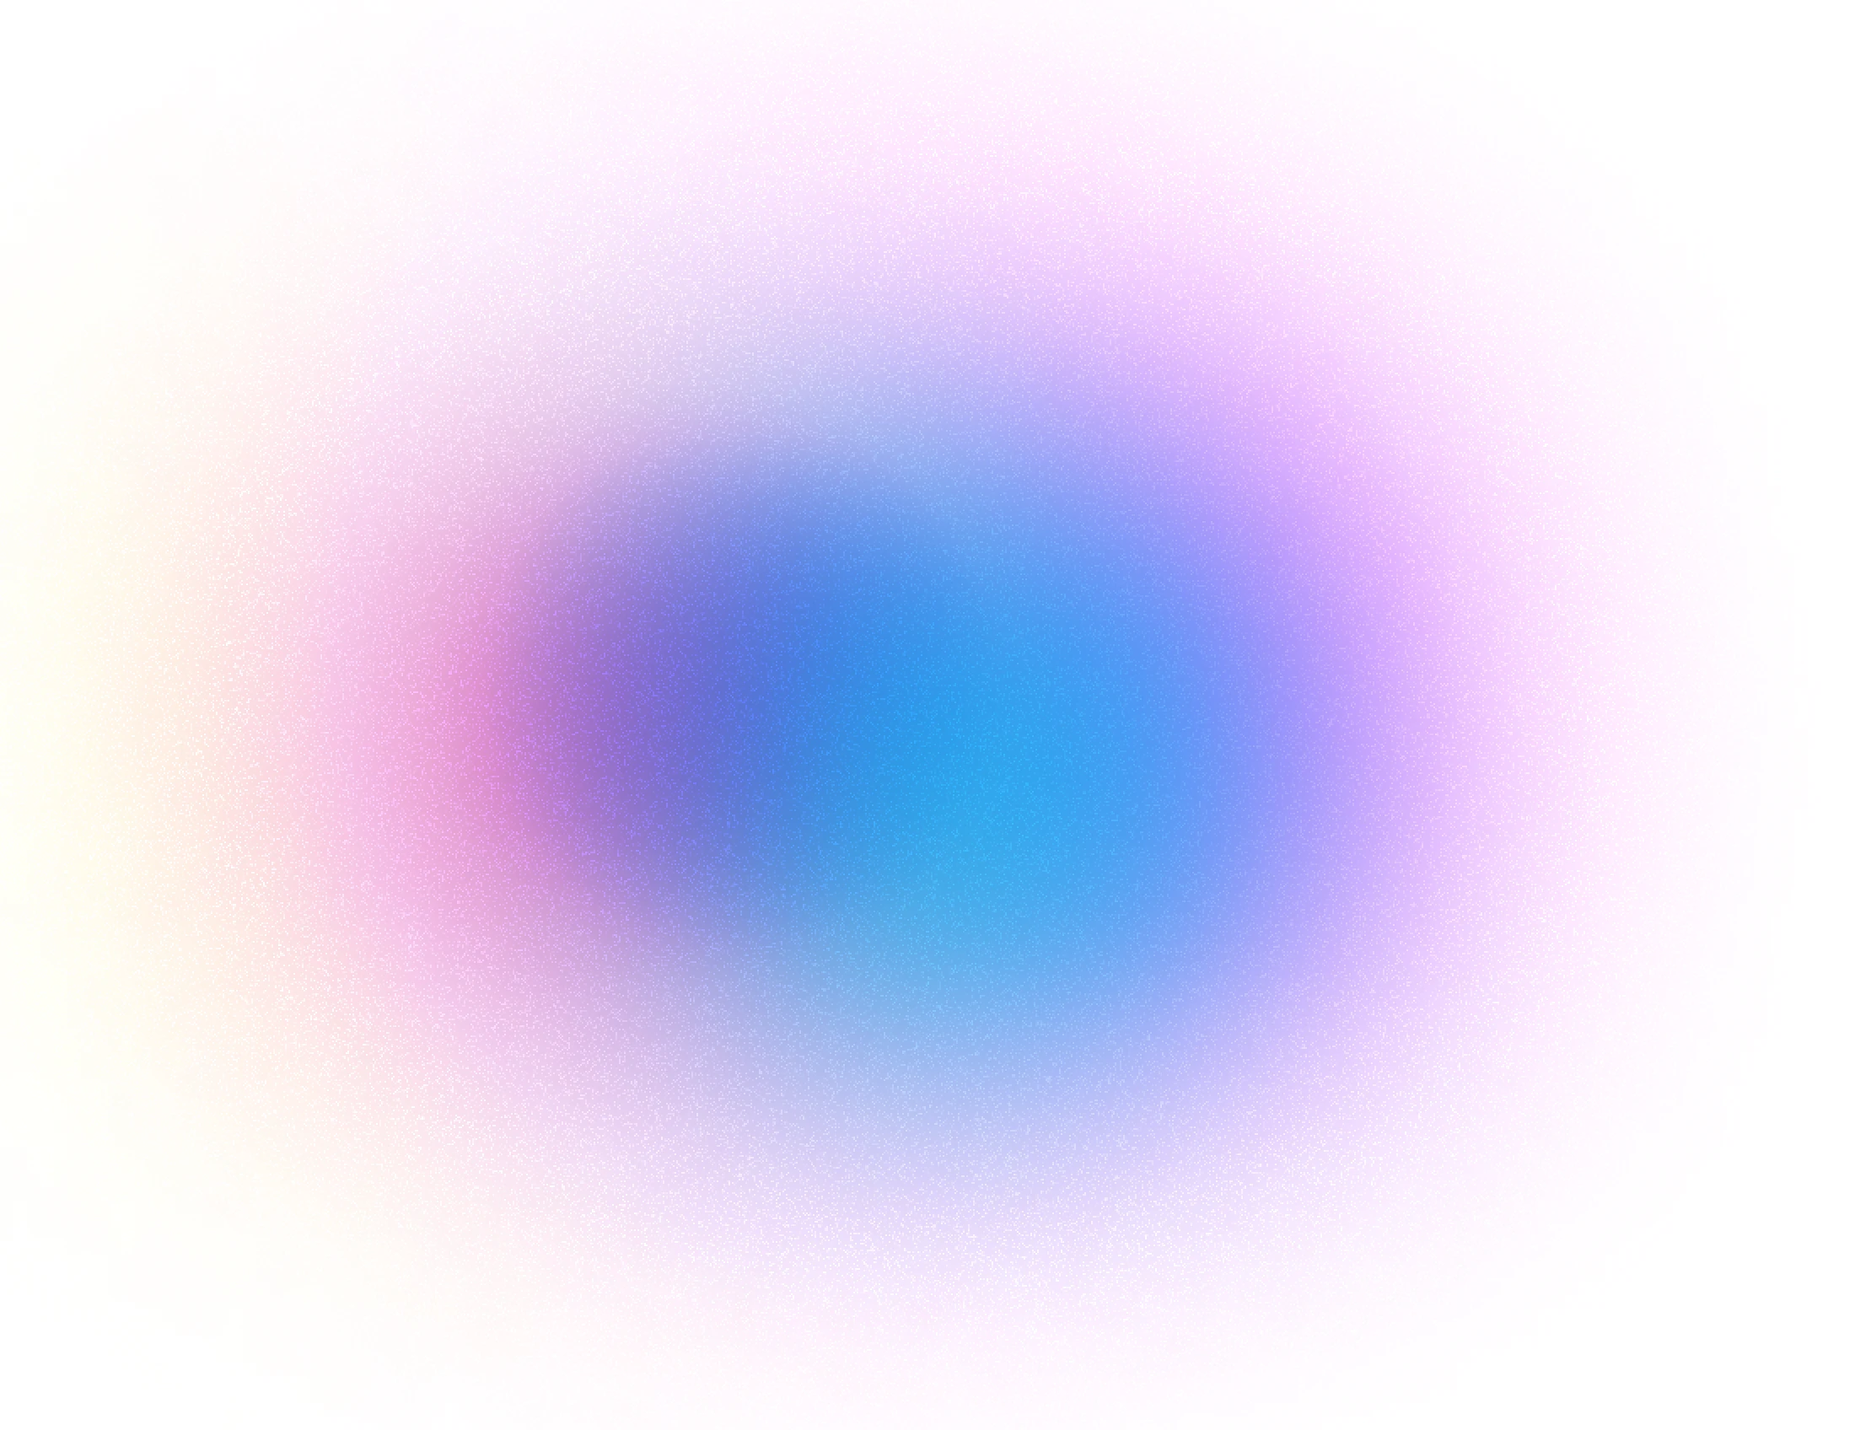
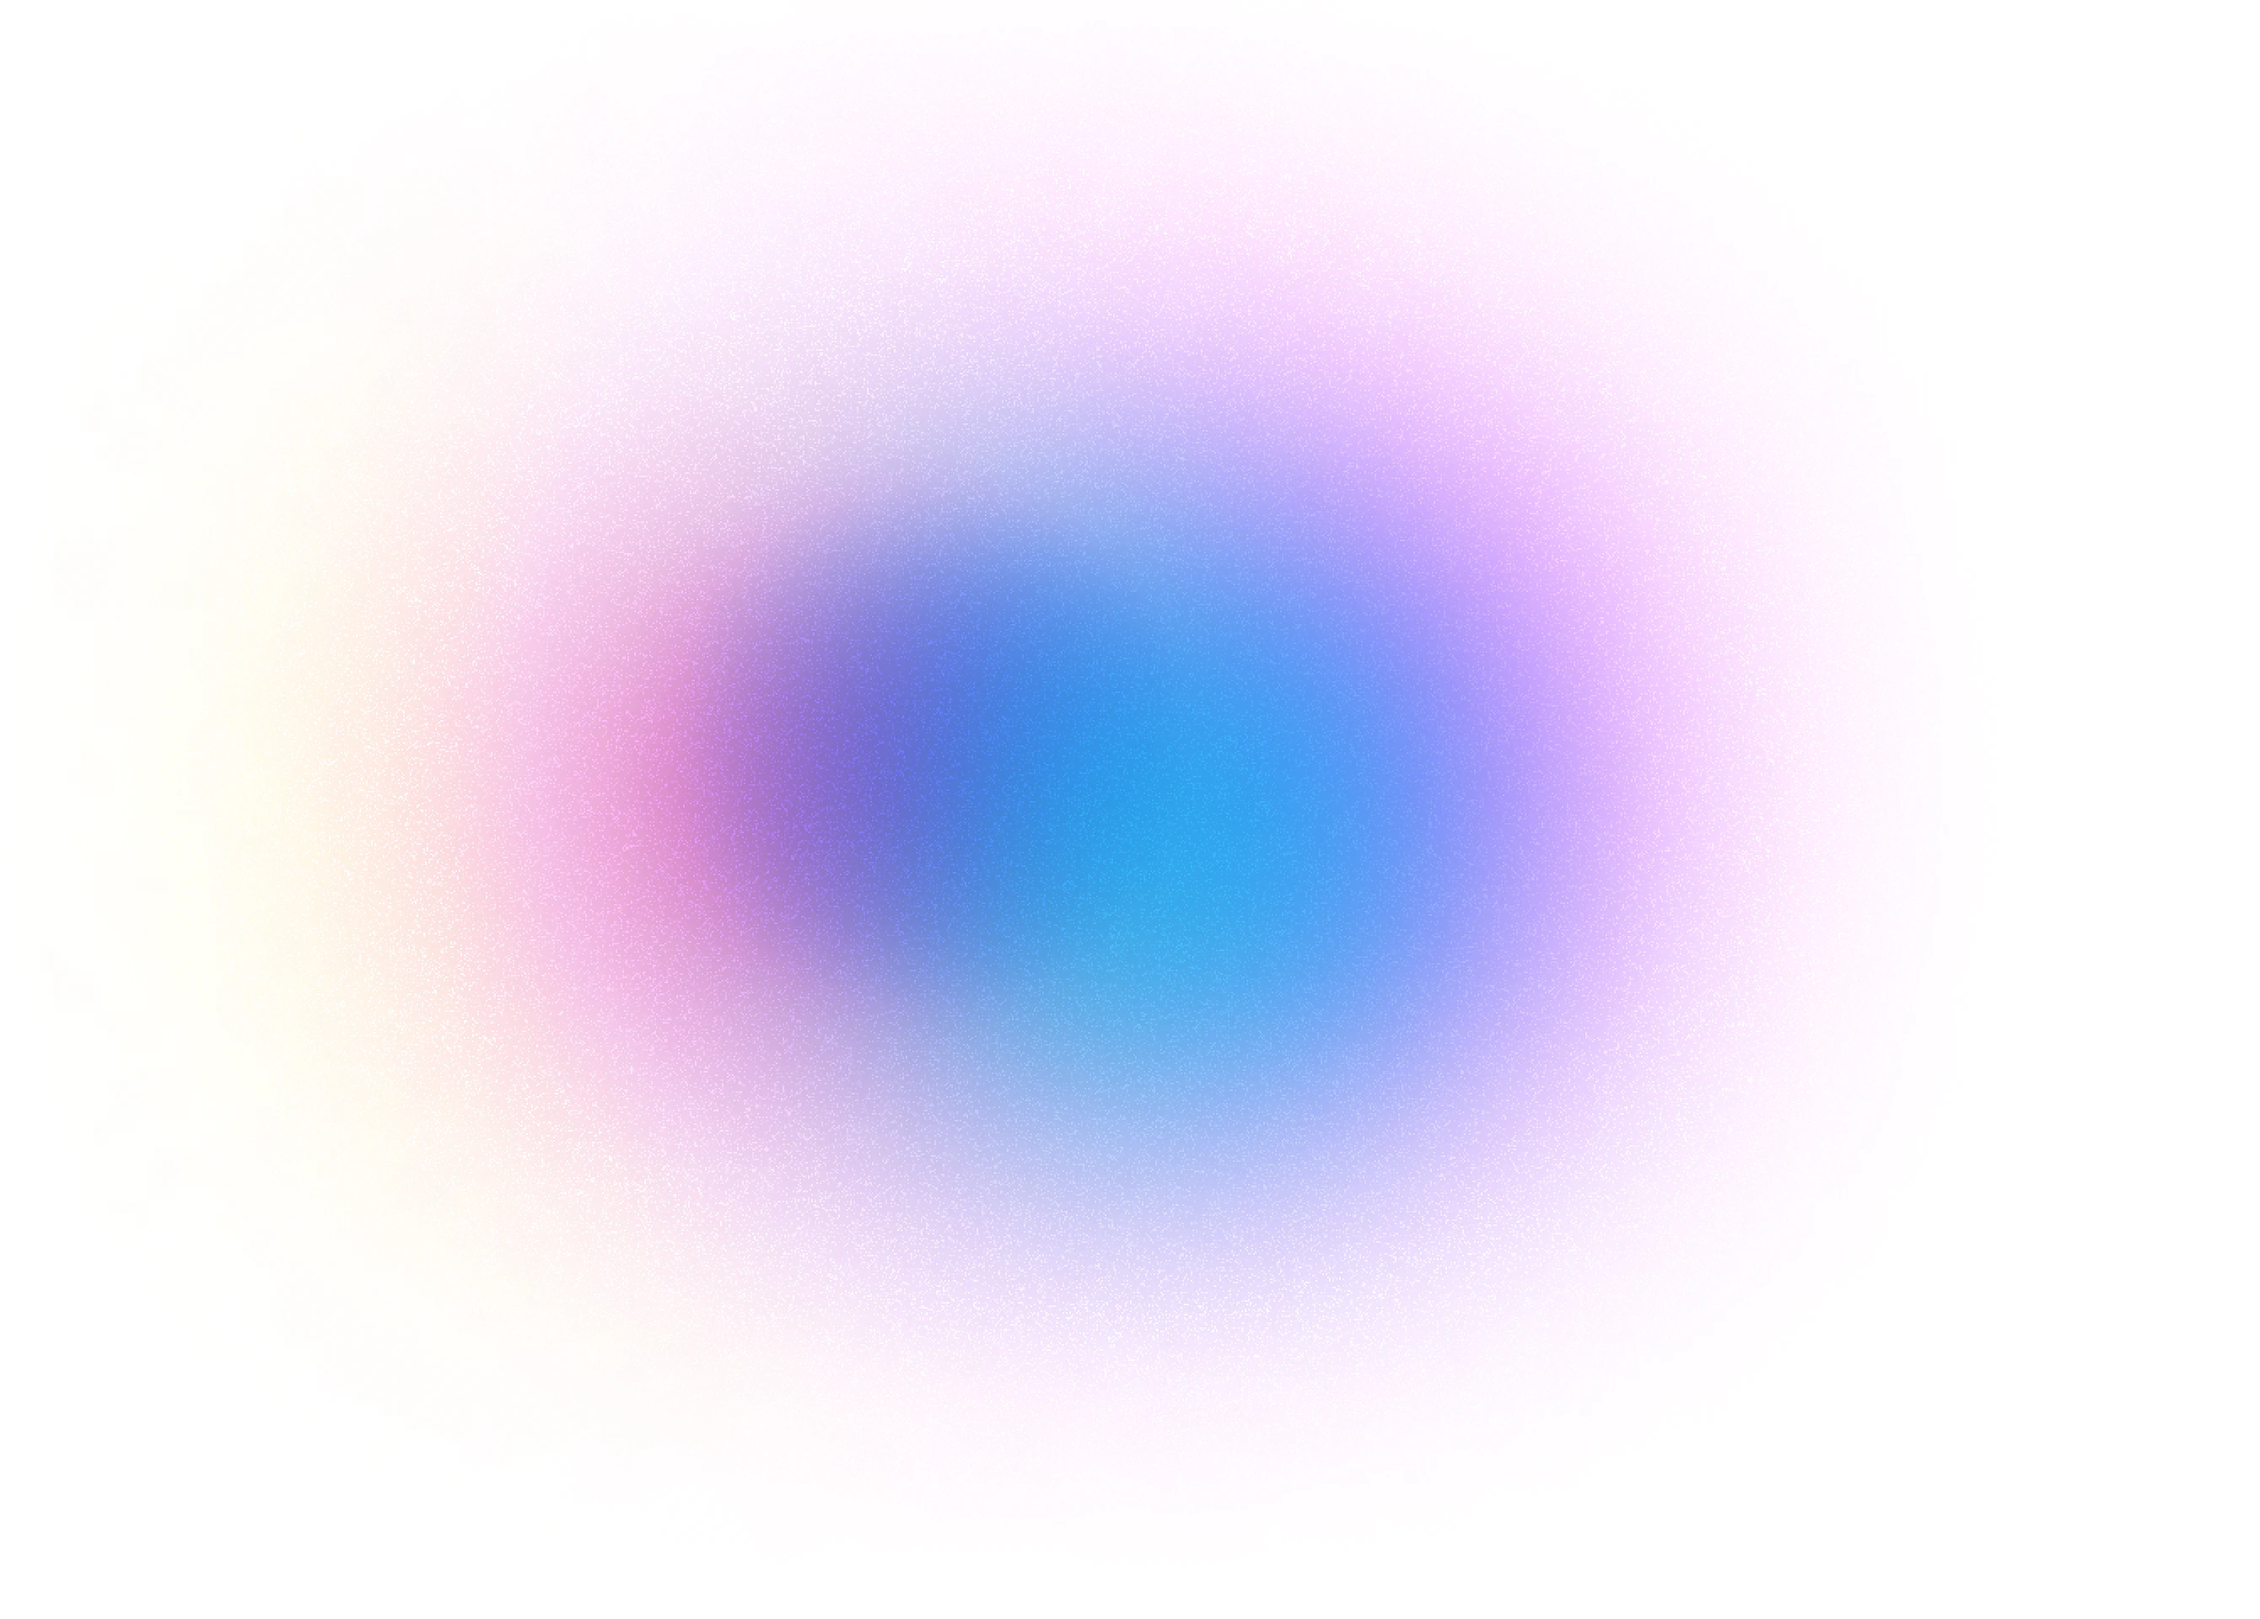
fix vote period hero background image

Changed region(s): [[0.1236, 0.2188, 0.8655, 0.875]]

diff --git a/src/staking-v3/components/styles/feature-dapp.scss b/src/staking-v3/components/styles/feature-dapp.scss
@@ -2,7 +2,6 @@
 
 .wrapper--promo {
   width: 100%;
-  z-index: 1;
   position: relative;
   @media (min-width: $lg) {
     padding-right: 40px;
@@ -208,19 +207,15 @@
   top: 0;
   left: 0;
   right: 0;
+  bottom: 0;
   z-index: 1;
   mix-blend-mode: multiply;
-  @media (min-width: $lg) {
-    top: -36px;
-  }
   img {
-    height: 100vw;
-    object-fit: cover;
+    max-width: 1340px;
+    width: 100%;
+    height: 100%;
     margin: auto;
-    @media (min-width: $sm) {
-      max-width: 1100px;
-      width: 100%;
-      height: auto;
-    }
+    object-fit: cover;
+    overflow: visible;
   }
 }

diff --git a/src/components/header/ClaimWarningBanner.vue b/src/components/header/ClaimWarningBanner.vue
@@ -46,7 +46,7 @@ export default defineComponent({
   padding: 4px 8px 8px 8px;
   font-size: 12px;
   position: relative;
-  z-index: 1;
+  z-index: 2;
   display: flex;
   align-items: center;
   @media (min-width: $sm) {
